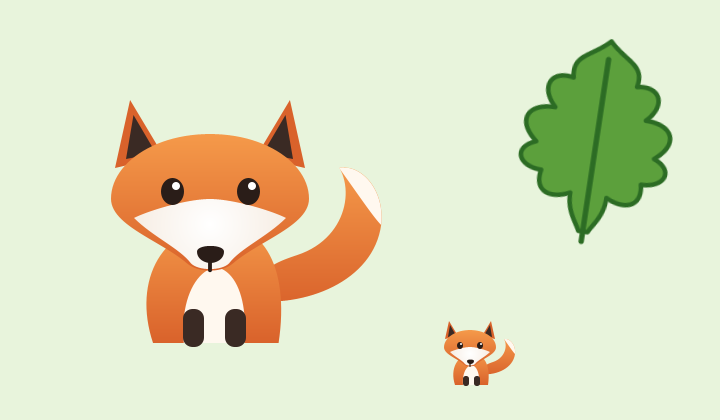
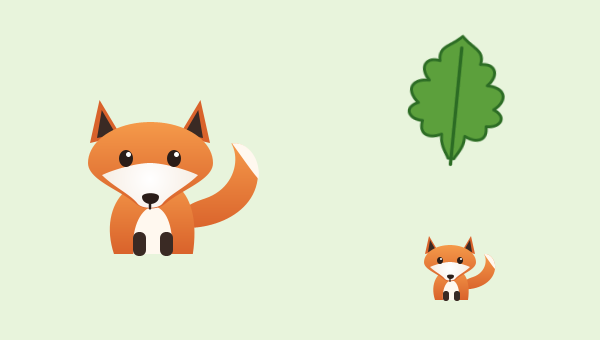
shape, example/vectorart: the 256-pixel limit on a mask, in the docs and the example
The driver keeps a settled mask at most 256 device pixels across and
stretches a bigger one. The README and the package doc now say so, and
that the limit is for each path, and so for each part of a figure, not
for the whole figure. The README also names the <style> and <use>
errors and how to save a file the reader takes.

The example draws the fox in 240 units, its largest part about 126
units across, so no mask passes 256 pixels even on a screen of two
pixels to a unit; the window is 600 by 340 to fit, and its picture is
taken again. A test paints the example and checks every mask is at
most 128 units across.

Changed region(s): [[0.15, 0.2353, 0.54, 0.8235], [0.66, 0.0882, 0.96, 0.5882], [0.6, 0.7059, 0.84, 0.9412]]

diff --git a/example/vectorart/main.go b/example/vectorart/main.go
@@ -39,6 +39,9 @@ const (
 // leafBox is the grid the leaf is drawn on.
 var leafBox = geom.Rc(0, 0, 24, 24)
 
+// windowSize is the window's size in units.
+var windowSize = geom.Sz(600, 340)
+
 func main() {
 	runFor := flag.Duration("for", 0, "quit after this long; zero runs until the window closes")
 	shot := flag.String("shot", "", "write the window to this PNG file after -after, and quit")
@@ -62,7 +65,7 @@ func run(runFor time.Duration, shot string, after time.Duration) error {
 		return err
 	}
 	err = gunim.Main(ctx, func(a *gunim.App) error {
-		w, err := a.NewWindow(gunim.WindowOptions{Title: "gunim vector art", Size: geom.Sz(720, 420), Root: root})
+		w, err := a.NewWindow(gunim.WindowOptions{Title: "gunim vector art", Size: windowSize, Root: root})
 		if err != nil {
 			return err
 		}
@@ -150,10 +153,12 @@ var (
 // Paint implements [gunim.Node].
 func (a *art) Paint(p *paint.Painter, _ gunim.Frame, box geom.Size, _ gunim.Children) {
 	p.RRect(geom.Rect{Max: box.Point()}, 0, paint.Solid(meadow))
-	a.fox.Paint(p, shape.Fit(a.fox.ViewBox, geom.Rc(20, 20, 380, 380)))
-	a.fox.Paint(p, shape.Fit(a.fox.ViewBox, geom.Rc(420, 300, 100, 100)))
+	// A driver keeps a mask at most 256 pixels across and stretches a bigger one, so the fox is drawn small enough
+	// that its largest part is about 126 units across: 252 pixels on a screen of two pixels to a unit.
+	a.fox.Paint(p, shape.Fit(a.fox.ViewBox, geom.Rc(30, 50, 240, 240)))
+	a.fox.Paint(p, shape.Fit(a.fox.ViewBox, geom.Rc(400, 215, 100, 100)))
 	// The leaf turns about its stem by a transform: its masks stay the size they were drawn at.
-	r := geom.Rc(470, 30, 220, 220)
+	r := geom.Rc(380, 30, 140, 140)
 	stem := geom.Pt(r.Center().X, r.Max.Y)
 	defer p.Push(paint.Rotate(float32(0.15*math.Sin(a.t*1.6)), stem))()
 	p.Mask(a.leaf.Fill(), a.leaf.Fill().In(leafBox, r), leafGreen)

diff --git a/example/vectorart/main_test.go b/example/vectorart/main_test.go
@@ -1,0 +1,34 @@
+package main
+
+import (
+	"testing"
+
+	"github.com/marrasen/gunim"
+	"github.com/marrasen/gunim/paint"
+)
+
+// Every mask the example draws is at most 128 units across: 256 pixels on a screen of two pixels to a unit, the
+// most a driver keeps a settled mask at, so none is stretched.
+func TestEveryMaskFitsTheDriversMostOnADoubleDensityScreen(t *testing.T) {
+	a, err := newArt()
+	if err != nil {
+		t.Fatal(err)
+	}
+	var p paint.Painter
+	p.Reset()
+	a.Paint(&p, gunim.Frame{}, windowSize, gunim.Children{})
+	masks := 0
+	for _, op := range p.Ops() {
+		m, ok := op.(*paint.MaskOp)
+		if !ok {
+			continue
+		}
+		masks++
+		if s := m.Rect.Size(); s.W > 128 || s.H > 128 {
+			t.Errorf("a %T is drawn %v by %v", m.Shape, s.W, s.H)
+		}
+	}
+	if masks == 0 {
+		t.Fatal("drew no masks")
+	}
+}

diff --git a/shape/path.go b/shape/path.go
@@ -5,6 +5,11 @@
 // moved, turned, scaled by a transform, faded or tinted another colour, costs a quad. Drawing it at a new size in
 // pixels rasterizes it again, so an animation moves and scales a shape by a transform rather than by its rect.
 //
+// A driver keeps each mask at most 256 device pixels across, or down, and stretches a bigger one from that, as it
+// does any settled mask, so a mask past 256 pixels draws softer the bigger it is. The limit holds for each path,
+// and so for each part of a [Figure], not for the figure as a whole: a figure drawn 400 pixels wide whose largest
+// part is 250 pixels across draws sharp. On a screen of two pixels to a unit, 256 pixels are 128 units.
+//
 //	leaf, err := shape.NewPath("M12 2C6 8 6 16 12 22C18 16 18 8 12 2Z")
 //	if err != nil {
 //		return err

diff --git a/README.md b/README.md
@@ -720,6 +720,12 @@ each size in pixels it is drawn at, kept, and tinted as it draws, so a
 drawing of a dozen parts costs a dozen quads a frame. Move, turn or scale
 one by a transform rather than by its rect, and it is never drawn again.
 
+The driver keeps each mask at most 256 device pixels across, or down,
+and stretches a bigger one, so a path or a figure's part drawn past 256
+pixels comes out softer the bigger it is: on a screen of two pixels to
+a unit, that is past 128 units. The limit is for each part, not the
+whole figure.
+
 ```go
 //go:embed fox.svg
 var foxSVG []byte
@@ -750,7 +756,10 @@ p.Mask(leaf.Stroke(1), leaf.Stroke(1).In(grid, r), darkGreen)
 An SVG file's paths, rects, circles, ellipses, lines, polylines and
 polygons are read, in groups with their transforms, with fill, stroke,
 their opacities, the fill rule, and linear and radial gradients. Text,
-images, filters, masks and clip paths are left out. `go run
+images, filters, masks and clip paths are left out. A `<style>` sheet
+with rules, and `<use>`, are errors that name the element: save from
+the editor with styles kept on the elements (Illustrator's
+"Presentation Attributes") and clones and symbols unlinked. `go run
 ./example/vectorart` draws a fox from a file and a leaf from a line of
 path data.
 
